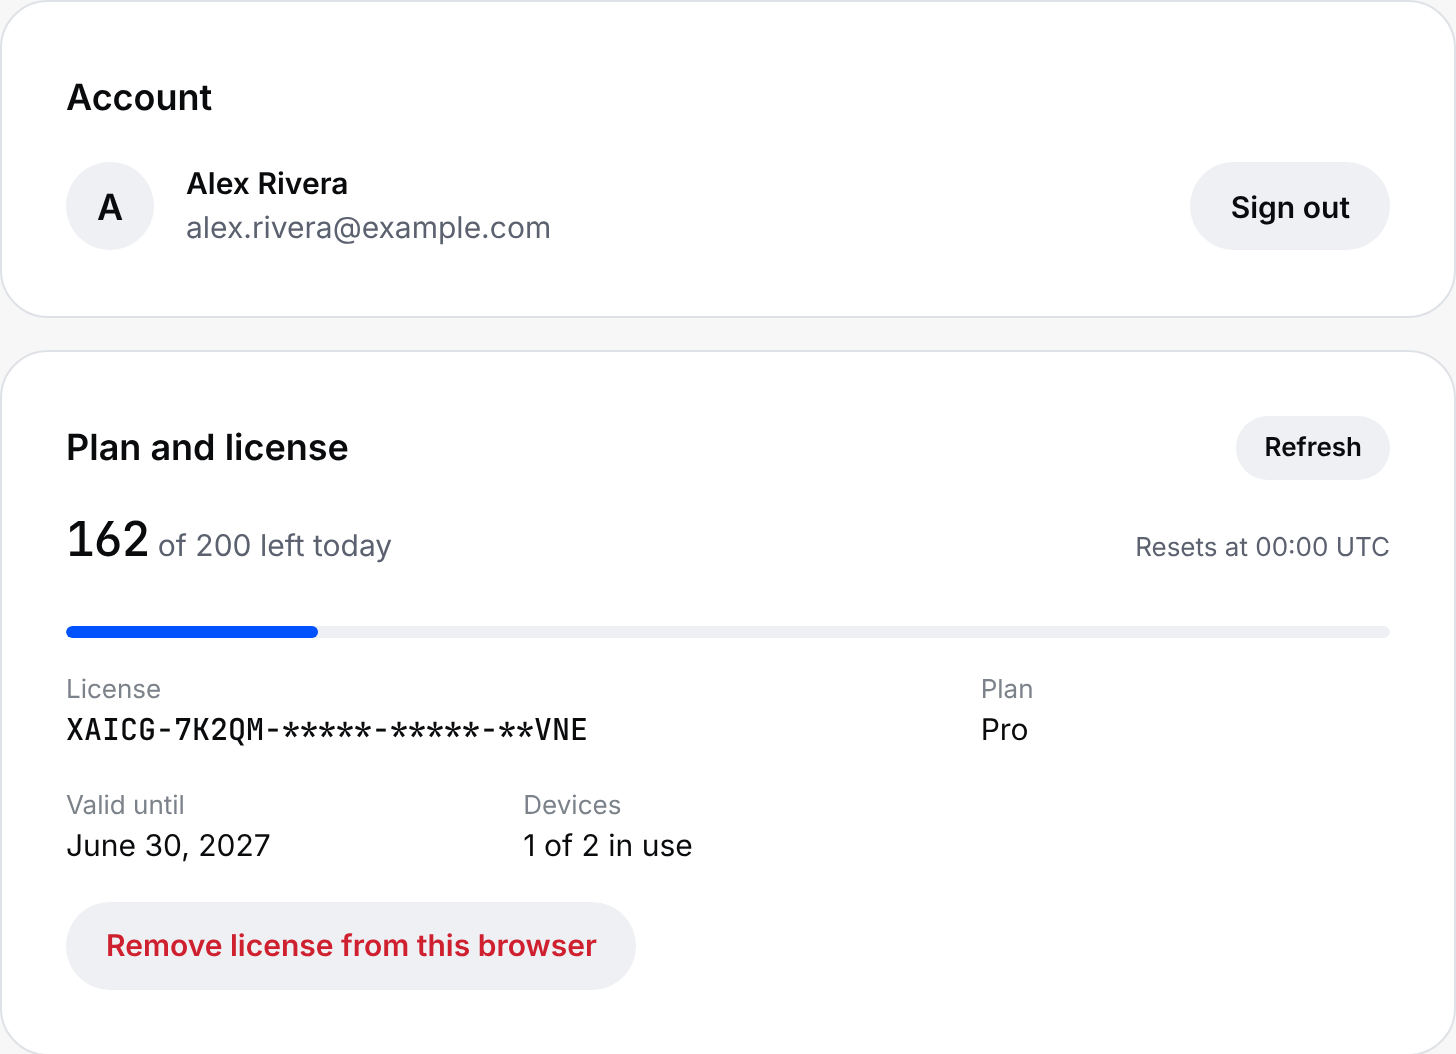
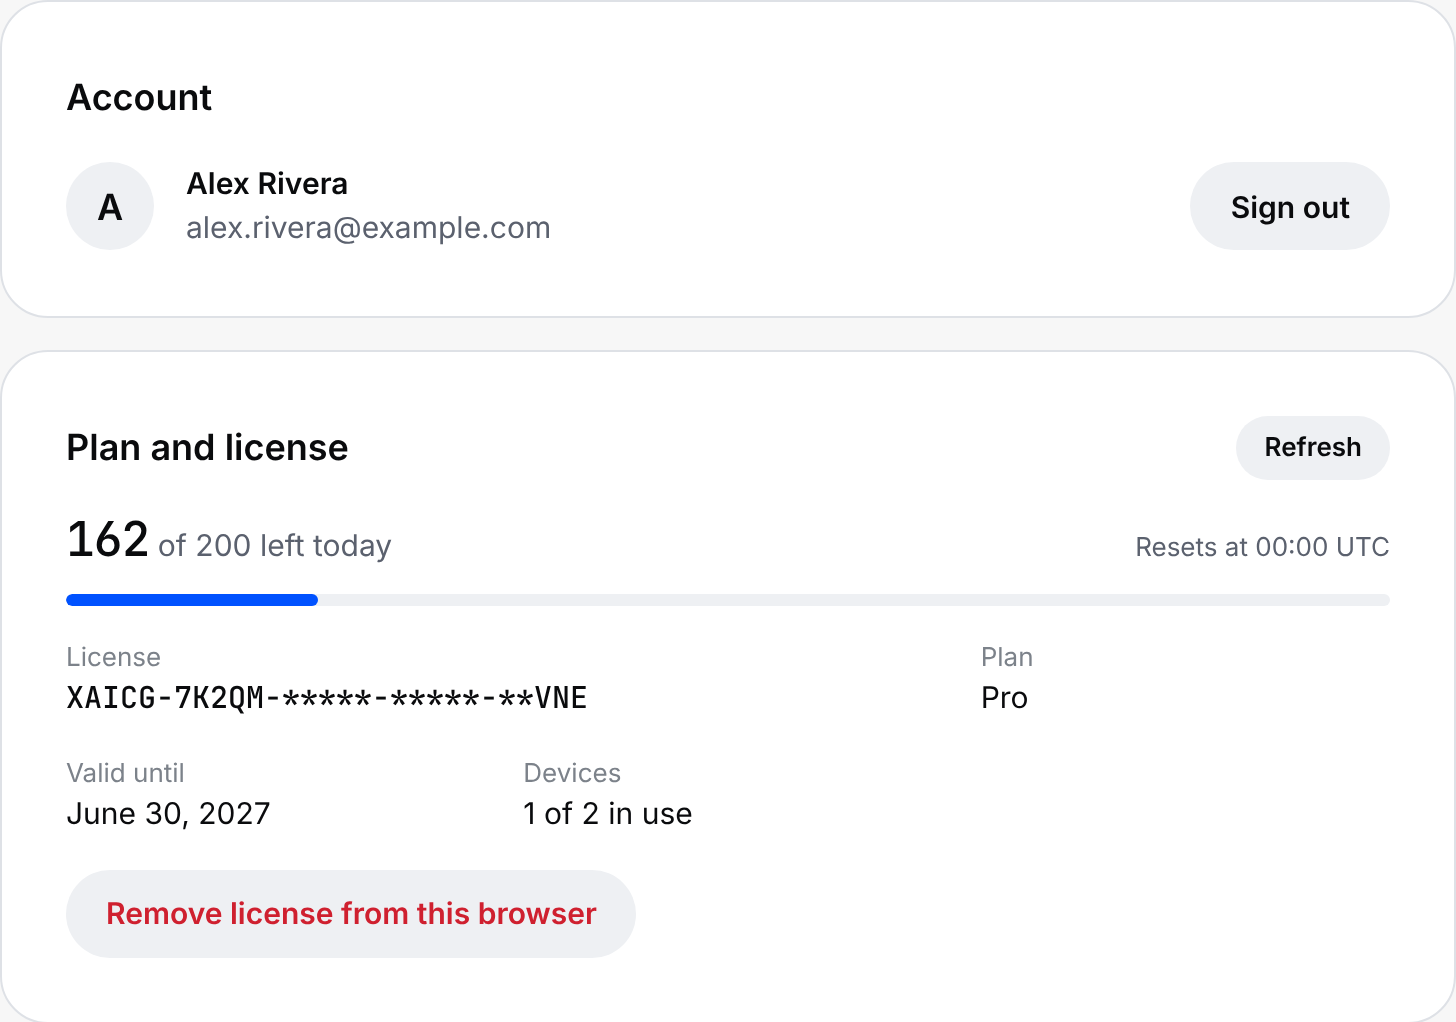
Extension: lead with the free trial, not the license key
A new user opening the popup or the settings page saw a license key field
before anything else, and no sign of the trial.

- Popup: when sign-in is needed, a "Start your free trial" card with the
  Google button comes first and signs in right there. Otherwise the trial
  meter leads.
- Settings: the plan card is titled "Your free trial" and says what the
  trial is and that no card or license is needed. The license key field is
  folded behind "I have a license key" and opens by itself once the trial
  is used up or a license has lapsed. "Get a license" becomes a quiet
  "See plans" until then.
- If the server cannot be reached, both say so plainly instead of showing
  an empty meter and a license form.

Claude-Session: https://claude.ai/code/session_0179YLdaPpCWykUZvKqfw6Nz

diff --git a/extension/options.js b/extension/options.js
@@ -38,13 +38,33 @@ function showAccount(account) {
     $("licDevices").textContent = `${lic.devicesUsed} of ${lic.maxDevices} in use`;
   }
   $("deactivate").hidden = !lic;
-  // Keep the key field available on trial and when a license needs replacing.
-  $("activateForm").hidden = account.licensed;
-  $("buy").hidden = account.licensed || Boolean(account.accountLicense);
+
+  // A new user is on the free trial. Say so first; the license key is for
+  // later and stays folded away until it is needed.
+  const q = account.quota || {};
+  const trial = !account.licensed;
+  const spent = trial && !d.signInRequired && q.remaining === 0;
+  const lapsed = account.notice === "license_expired" || account.notice === "license_revoked";
+  $("planTitle").textContent = trial ? "Your free trial" : "Plan and license";
+  $("planLead").hidden = !trial;
+  $("planLead").textContent = d.signInRequired
+    ? `Sign in with Google above and you get ${q.limit || 20} free generations. No card and no license needed.`
+    : spent
+      ? "Your free trial is used up. A license keeps you going."
+      : account.auth?.google
+        ? "You can try everything free. No card and no license needed."
+        : "You can try everything free. No sign-up, no card and no license needed.";
+  // Before signing in there is nothing to count yet.
+  $("planBody").hidden = d.signInRequired;
+  $("haveKey").hidden = account.licensed && !lapsed;
+  if (spent || lapsed || location.hash === "#license") $("haveKey").open = true;
+  $("buy").hidden = (account.licensed && !lapsed) || Boolean(account.accountLicense);
   // The box below already explains a waiting account license; don't also say "activate a license".
   if (account.accountLicense) $("notice").hidden = true;
   $("buy").href = d.buyUrl;
-  $("buy").textContent = account.notice === "license_expired" ? "Renew license" : "Get a license";
+  $("buy").textContent = account.notice === "license_expired" ? "Renew license" : spent ? "Get a license" : "See plans";
+  $("buy").className = spent || lapsed ? "btn primary" : "btn";
+  $("serverProblem").hidden = true;
   $("support").href = d.supportUrl;
 }
 
@@ -58,12 +78,14 @@ function showSignIn(account) {
   $("signedIn").hidden = !user;
   $("welcomeSignIn").hidden = !auth.signInRequired;
   if (user) {
+    $("accountTitle").textContent = "Account";
     $("userName").textContent = user.name || user.email;
     $("userEmail").textContent = user.name ? user.email : "";
     $("avatar").textContent = (user.name || user.email).trim().charAt(0);
   } else {
+    $("accountTitle").textContent = auth.signInRequired ? "Start your free trial" : "Account";
     $("signInWhy").textContent = auth.signInRequired
-      ? "Sign in with Google to start your free trial. Your trial and any license then follow your account to every browser you sign in on."
+      ? "Sign in with Google to start your free trial. It is free, and there is no card to enter. Your trial and any license then follow your account to every browser you sign in on."
       : "Signing in is optional. It keeps your license with your Google account, so a new browser only needs you to sign in.";
   }
 
@@ -97,7 +119,10 @@ async function loadAccount(refresh) {
     showAccount(account);
     return account;
   } catch (err) {
-    setLicenseStatus(err.message, "error");
+    // Without an answer from the server there is no trial or plan to show.
+    // Say what went wrong instead of leaving a bare license form.
+    $("serverProblem").textContent = `${err.message} Your free trial and plan will show here once the server answers.`;
+    $("serverProblem").hidden = false;
     return null;
   }
 }
@@ -274,7 +299,10 @@ $("clearMemory").addEventListener("click", async () => {
 
   $("version").textContent = chrome.runtime.getManifest().version;
   if (location.hash === "#welcome") $("welcome").hidden = false;
-  if (location.hash === "#license") $("licenseKey").focus();
+  if (location.hash === "#license") {
+    $("haveKey").open = true;
+    $("licenseKey").focus();
+  }
   if (location.hash === "#account") $("account").scrollIntoView({ block: "start" });
 
   loadAccount(true);

diff --git a/extension/options.html b/extension/options.html
@@ -30,7 +30,7 @@
     </section>
 
     <section id="account" class="card" hidden>
-      <div class="card-head"><h2>Account</h2></div>
+      <div class="card-head"><h2 id="accountTitle">Account</h2></div>
       <div id="signedOut" class="stack">
         <p id="signInWhy" class="muted"></p>
         <button id="googleSignIn" class="gsi" type="button">
@@ -52,16 +52,20 @@
 
     <section id="license" class="card">
       <div class="card-head">
-        <h2>Plan and license</h2>
+        <h2 id="planTitle">Your free trial</h2>
         <button id="refresh" class="btn sm" type="button">Refresh</button>
       </div>
+      <p id="planLead" class="muted lead"></p>
+      <p id="serverProblem" class="problem" role="alert" hidden></p>
 
-      <div class="quota-line">
-        <span><b id="quotaLeft">–</b> <span id="quotaLabel" class="muted">generations left</span></span>
-        <span id="quotaSub" class="muted small"></span>
+      <div id="planBody" class="plan-body">
+        <div class="quota-line">
+          <span><b id="quotaLeft">–</b> <span id="quotaLabel" class="muted">generations left</span></span>
+          <span id="quotaSub" class="muted small"></span>
+        </div>
+        <div id="quotaBar" class="bar"><i></i></div>
+        <p id="notice" class="notice" hidden></p>
       </div>
-      <div id="quotaBar" class="bar"><i></i></div>
-      <p id="notice" class="notice" hidden></p>
 
       <dl id="licenseInfo" class="facts" hidden>
         <div class="wide"><dt>License</dt><dd id="licHint" class="mono"></dd></div>
@@ -70,25 +74,30 @@
         <div><dt>Devices</dt><dd id="licDevices"></dd></div>
       </dl>
 
-      <form id="activateForm" class="activate">
-        <label for="licenseKey">License key</label>
-        <div class="inline">
-          <input id="licenseKey" type="text" class="mono" placeholder="XAICG-XXXXX-XXXXX-XXXXX-XXXXX" autocomplete="off" spellcheck="false" maxlength="80">
-          <button id="activate" class="btn primary" type="submit">Activate</button>
-        </div>
-      </form>
-      <p id="licenseStatus" class="status" role="status" aria-live="polite"></p>
       <div id="accountLicenseBox" class="replace" hidden>
         <p id="accountLicenseText"></p>
         <button id="attachLicense" class="btn primary" type="button">Use it on this browser</button>
       </div>
+
+      <!-- A license is for later. It stays folded away until someone has one. -->
+      <details id="haveKey" class="have-key">
+        <summary>I have a license key</summary>
+        <form id="activateForm" class="activate">
+          <label for="licenseKey">License key</label>
+          <div class="inline">
+            <input id="licenseKey" type="text" class="mono" placeholder="XAICG-XXXXX-XXXXX-XXXXX-XXXXX" autocomplete="off" spellcheck="false" maxlength="80">
+            <button id="activate" class="btn primary" type="submit">Activate</button>
+          </div>
+        </form>
+      </details>
+      <p id="licenseStatus" class="status" role="status" aria-live="polite"></p>
       <div id="replaceBox" class="replace" hidden>
         <p>This license is already in use on its maximum number of devices. You can move it here by signing out the device that has been idle longest.</p>
         <button id="replace" class="btn" type="button">Move the license to this browser</button>
       </div>
 
       <div class="card-foot">
-        <a id="buy" class="btn primary" target="_blank" rel="noopener">Get a license</a>
+        <a id="buy" class="btn" target="_blank" rel="noopener">See plans</a>
         <button id="deactivate" class="btn danger" type="button" hidden>Remove license from this browser</button>
       </div>
     </section>

diff --git a/extension/popup.js b/extension/popup.js
@@ -47,9 +47,17 @@ function showAccount(account) {
   if (!d) return;
   buyUrl = d.buyUrl;
   const upgrade = $("upgrade");
+  const spent = d.trial && !d.signInRequired && d.left === 0;
   upgrade.hidden = !d.trial || d.signInRequired;
   upgrade.href = buyUrl;
-  $("signIn").hidden = !d.signInRequired;
+  upgrade.textContent = spent ? "Get a license" : "See plans";
+  upgrade.className = spent ? "btn sm primary" : "btn sm";
+  // Until someone has signed in there is no trial to count: offer the
+  // sign-in instead of an empty meter.
+  $("start").hidden = !d.signInRequired;
+  $("usage").hidden = d.signInRequired;
+  $("startCount").textContent = String(account.quota?.limit || 20);
+  $("problem").hidden = true;
 }
 
 function applyMode() {
@@ -205,8 +213,27 @@ $("copyAll").addEventListener("click", async () => {
   setTimeout(() => ($("copyAll").textContent = "Copy thread"), 1400);
 });
 $("openOptions").addEventListener("click", () => chrome.runtime.openOptionsPage());
-// Signing in happens on the settings page, where there is room to explain it.
-$("signIn").addEventListener("click", () => send("xaicg:open-options", { section: "account" }).then(() => window.close(), () => {}));
+// Chrome shows its own Google account prompt. If that prompt takes the focus
+// and closes this popup, the sign-in still finishes in the background, and
+// the popup shows the trial the next time it is opened.
+$("startSignIn").addEventListener("click", async () => {
+  const button = $("startSignIn");
+  const say = (message, kind = "") => {
+    $("startStatus").textContent = message;
+    $("startStatus").className = `status ${kind}`.trim();
+  };
+  button.disabled = true;
+  say("Waiting for Google…");
+  try {
+    const { account } = await send("xaicg:signin");
+    showAccount(account);
+    sfx("done");
+  } catch (err) {
+    say(err.message, err.code === "sign_in_cancelled" ? "" : "error");
+  } finally {
+    button.disabled = false;
+  }
+});
 
 (async function init() {
   const stored = await chrome.storage.local.get(["popupState", "account", "settings"]);
@@ -223,6 +250,10 @@ $("signIn").addEventListener("click", () => send("xaicg:open-options", { section
     const { account } = await send("xaicg:account", { refresh: true });
     showAccount(account);
   } catch (err) {
-    if (!stored.account) setStatus(err.message, "error");
+    if (!stored.account) {
+      $("problem").textContent = `${err.message} Your free trial will show here once the server answers.`;
+      $("problem").hidden = false;
+      $("usage").hidden = true; // nothing to count without the server
+    }
   }
 })();

diff --git a/extension/popup.html b/extension/popup.html
@@ -19,7 +19,15 @@
   </header>
 
   <main>
-    <section class="card" aria-label="Usage">
+    <section id="start" class="card start" aria-label="Start your free trial" hidden>
+      <h2>Start your free trial</h2>
+      <p class="muted">Sign in with Google and get <b id="startCount">20</b> free generations. No card and no license needed.</p>
+      <button id="startSignIn" class="gsi" type="button"><svg width="18" height="18" viewBox="0 0 48 48" aria-hidden="true"><path fill="#EA4335" d="M24 9.5c3.54 0 6.71 1.22 9.21 3.6l6.85-6.85C35.9 2.38 30.47 0 24 0 14.62 0 6.51 5.38 2.56 13.22l7.98 6.19C12.43 13.72 17.74 9.5 24 9.5z"/><path fill="#4285F4" d="M46.98 24.55c0-1.57-.15-3.09-.38-4.55H24v9.02h12.94c-.58 2.96-2.26 5.48-4.78 7.18l7.73 6c4.51-4.18 7.09-10.36 7.09-17.65z"/><path fill="#FBBC05" d="M10.53 28.59c-.48-1.45-.76-2.99-.76-4.59s.27-3.14.76-4.59l-7.98-6.19C.92 16.46 0 20.12 0 24c0 3.88.92 7.54 2.56 10.78l7.97-6.19z"/><path fill="#34A853" d="M24 48c6.48 0 11.93-2.13 15.89-5.81l-7.73-6c-2.15 1.45-4.92 2.3-8.16 2.3-6.26 0-11.57-4.22-13.47-9.91l-7.98 6.19C6.51 42.62 14.62 48 24 48z"/></svg><span>Sign in with Google</span></button>
+      <p id="startStatus" class="status" role="status" aria-live="polite"></p>
+    </section>
+    <p id="problem" class="problem" role="alert" hidden></p>
+
+    <section id="usage" class="card" aria-label="Usage">
       <div class="quota-line">
         <span><b id="quotaLeft">–</b> <span id="quotaLabel" class="muted">generations left</span></span>
         <span id="quotaSub" class="muted small"></span>
@@ -88,8 +96,7 @@
   <footer>
     <div class="foot-actions">
       <button id="openOptions" class="btn sm" type="button">Settings</button>
-      <button id="signIn" class="btn sm primary" type="button" hidden>Sign in with Google</button>
-      <a id="upgrade" class="btn sm primary" target="_blank" rel="noopener" hidden>Get a license</a>
+      <a id="upgrade" class="btn sm" target="_blank" rel="noopener" hidden>See plans</a>
     </div>
     <p class="credit">A product of <a href="https://uniquelabs.org" target="_blank" rel="noopener">Unique Labs</a> · Developed by Shahriar Ahmed</p>
   </footer>

diff --git a/extension/options.css b/extension/options.css
@@ -187,29 +187,6 @@ fieldset {
   gap: 12px;
   justify-items: start;
 }
-/* Sign in with Google button, following Google's branding guidelines
-   (white fill, grey outline, the "G" mark, Google's pill shape). */
-.gsi {
-  display: inline-flex;
-  align-items: center;
-  gap: 10px;
-  height: 44px;
-  padding: 0 20px 0 14px;
-  border-radius: var(--r-pill);
-  border: 1px solid #747775;
-  background: #ffffff;
-  color: #1f1f1f;
-  font: 500 14px/20px Roboto, var(--sans);
-  letter-spacing: 0.25px;
-  cursor: pointer;
-}
-.gsi:active {
-  background: #f8faff;
-}
-.gsi:disabled {
-  opacity: 0.6;
-  cursor: not-allowed;
-}
 .who {
   display: flex;
   align-items: center;
@@ -265,4 +242,43 @@ fieldset {
 }
 .avatar {
   animation: pop 0.4s ease both;
+}
+
+/* The license key stays folded away until someone has one. */
+.have-key summary {
+  display: inline-flex;
+  align-items: center;
+  gap: 8px;
+  color: var(--body);
+  font-size: 14px;
+  font-weight: 600;
+  list-style: none;
+  cursor: pointer;
+}
+.have-key summary::-webkit-details-marker {
+  display: none;
+}
+.have-key summary::before {
+  content: "+";
+  display: grid;
+  place-items: center;
+  width: 22px;
+  height: 22px;
+  border-radius: 9999px;
+  background: var(--surface-strong);
+  color: var(--ink);
+  font-weight: 500;
+}
+.have-key[open] summary::before {
+  content: "\2212";
+}
+.have-key summary:hover {
+  color: var(--ink);
+}
+.have-key form {
+  margin-top: 16px;
+  animation: rise 0.25s ease both;
+}
+.plan-body {
+  display: grid;
 }

diff --git a/extension/ui.css b/extension/ui.css
@@ -370,6 +370,38 @@ input[type="checkbox"]:focus-visible {
   text-decoration: underline;
 }
 
+/* Sign in with Google button, following Google's branding guidelines
+   (white fill, grey outline, the "G" mark, Google's pill shape). */
+.gsi {
+  display: inline-flex;
+  align-items: center;
+  gap: 10px;
+  height: 44px;
+  padding: 0 20px 0 14px;
+  border-radius: var(--r-pill);
+  border: 1px solid #747775;
+  background: #ffffff;
+  color: #1f1f1f;
+  font: 500 14px/20px Roboto, var(--sans);
+  letter-spacing: 0.25px;
+  cursor: pointer;
+}
+.gsi:active {
+  background: #f8faff;
+}
+.gsi:disabled {
+  opacity: 0.6;
+  cursor: not-allowed;
+}
+.problem {
+  padding: 12px 14px;
+  border-radius: var(--r-md);
+  background: var(--surface-soft);
+  color: var(--ink);
+  font-size: 13px;
+  border-left: 3px solid var(--down);
+}
+
 /* ---- motion: shared by the popup and the settings page ---- */
 .btn,
 .chip,

diff --git a/extension/popup.css b/extension/popup.css
@@ -107,3 +107,32 @@ footer {
   border-color: var(--ink);
   transform: translateY(-2px);
 }
+
+/* First run: the trial offer comes before everything else. */
+.start {
+  display: grid;
+  gap: 12px;
+  justify-items: start;
+  border-color: var(--surface-dark);
+  background: var(--surface-dark);
+  color: var(--on-dark-soft);
+}
+.start h2 {
+  color: var(--on-dark);
+  font-size: 22px;
+  font-weight: 400;
+  line-height: 1.15;
+  letter-spacing: -0.3px;
+}
+.start .muted {
+  color: var(--on-dark-soft);
+}
+.start b {
+  color: var(--on-dark);
+}
+.start .status {
+  color: var(--on-dark-soft);
+}
+.start .status.error {
+  color: #ff8a93;
+}
